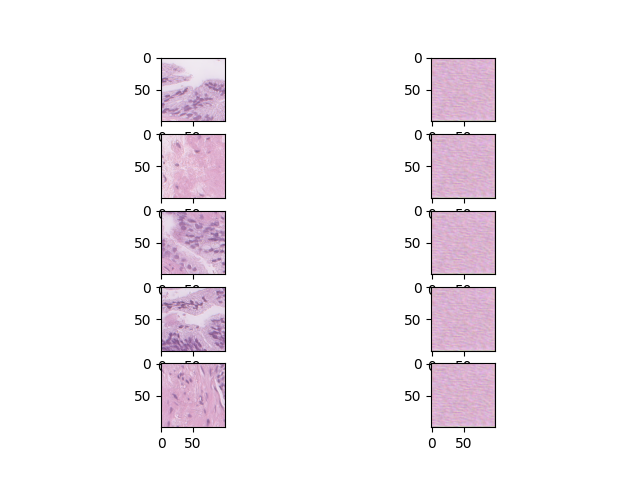
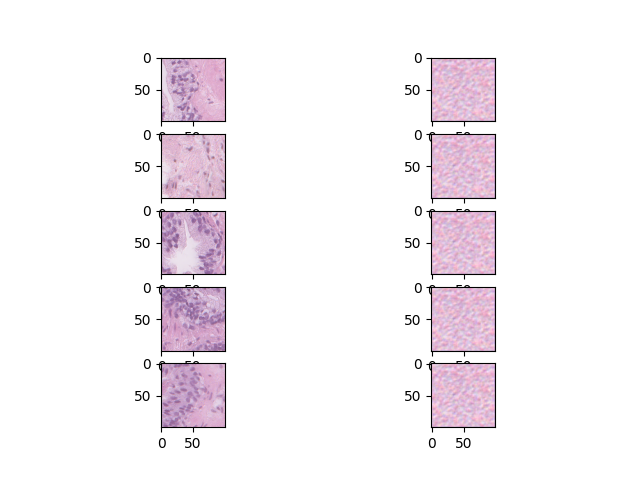
fix

diff --git a/main.py b/main.py
@@ -1,6 +1,5 @@
 import torch 
 from autoencoders import SimpleAutoencoder
-from utils import train_auto
 import matplotlib.pyplot as plt
 from dataset import WSIAEDataset
 
@@ -9,19 +8,20 @@ print("running on: {}".format(device))
 
 # Creating dataset
 patch_size = 100
-dataset = WSIAEDataset(['wsis_2023-11-03/20PK 02736-7_10x.png'], patch_size=patch_size, overlap=0).to(device)
-loader = torch.utils.data.DataLoader(dataset = dataset, batch_size = 32, shuffle = True).to(device)
+dataset = WSIAEDataset(['wsis_2023-11-03/20PK 02736-7_10x.png'], patch_size=patch_size, overlap=0)
+loader = torch.utils.data.DataLoader(dataset = dataset, batch_size = 32, shuffle = True)
 
 # Initializing model
 model = SimpleAutoencoder(channels_in=3).to(device)
 
 # Training model with dataset
 loss_function = torch.nn.MSELoss()
-optimizer = torch.optim.Adam(model.parameters(), lr = 5e-2, weight_decay = 1e-8).to(device)
+optimizer = torch.optim.Adam(model.parameters(), lr = 5e-2, weight_decay = 1e-8)
 
 n_epochs=1
 for _ in range(n_epochs):
-  for image in dataset: 
+  for image in loader: 
+
     reconstructed = model(image)
     loss = loss_function(reconstructed, image)
 

diff --git a/utils.py b/utils.py
@@ -1,0 +1,12 @@
+def train_auto(images, model, optimizer, loss_function, n_epochs=1):
+    for _ in range(n_epochs):
+        for image in images:
+
+            reconstructed = model(image)
+            loss = loss_function(reconstructed, image)
+            
+            optimizer.zero_grad()
+            loss.backward()
+            optimizer.step()
+    return model
+
